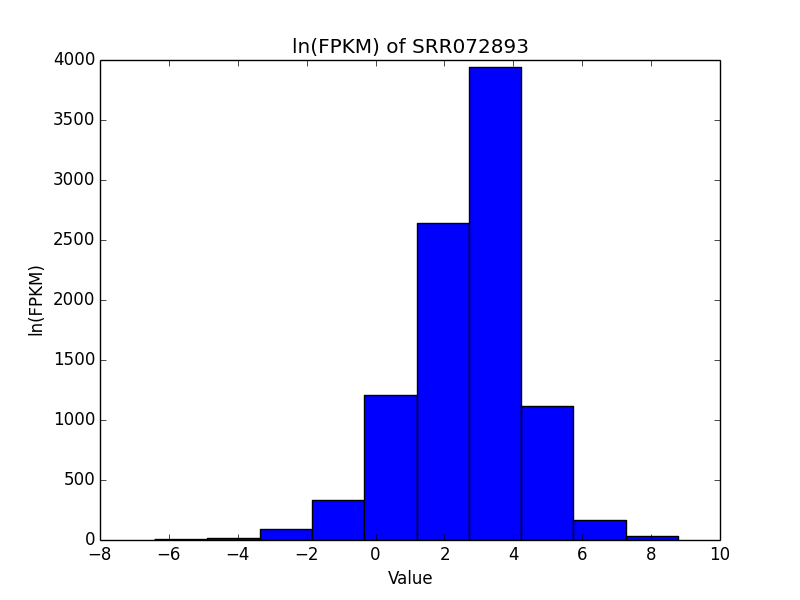
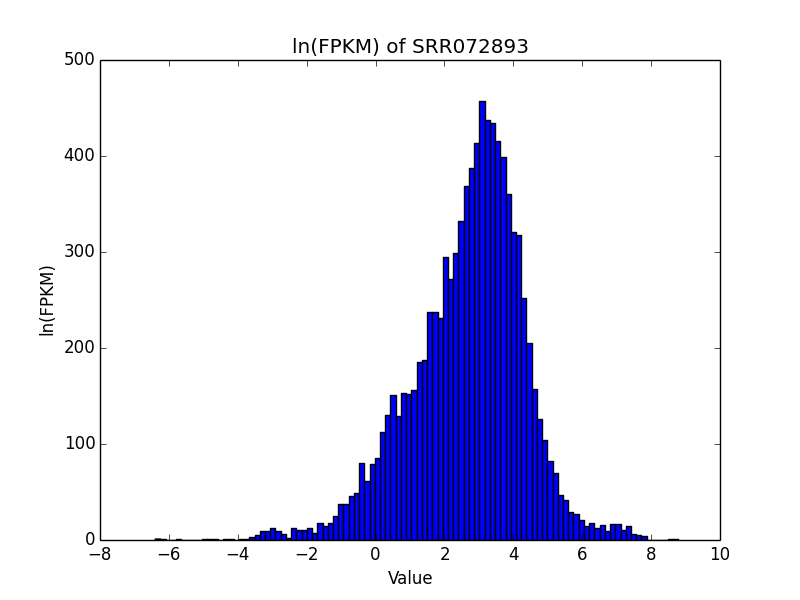
update:made bin number bigger

diff --git a/day3_lunch/code2_day3.py b/day3_lunch/code2_day3.py
@@ -17,7 +17,7 @@ for item in df893["FPKM"]:
 
 
 plt.figure()
-plt.hist(df)
+plt.hist(df, color = 'blue', bins =100)
 plt.title("ln(FPKM) of SRR072893")
 plt.xlabel("Value")
 plt.ylabel("ln(FPKM)")
